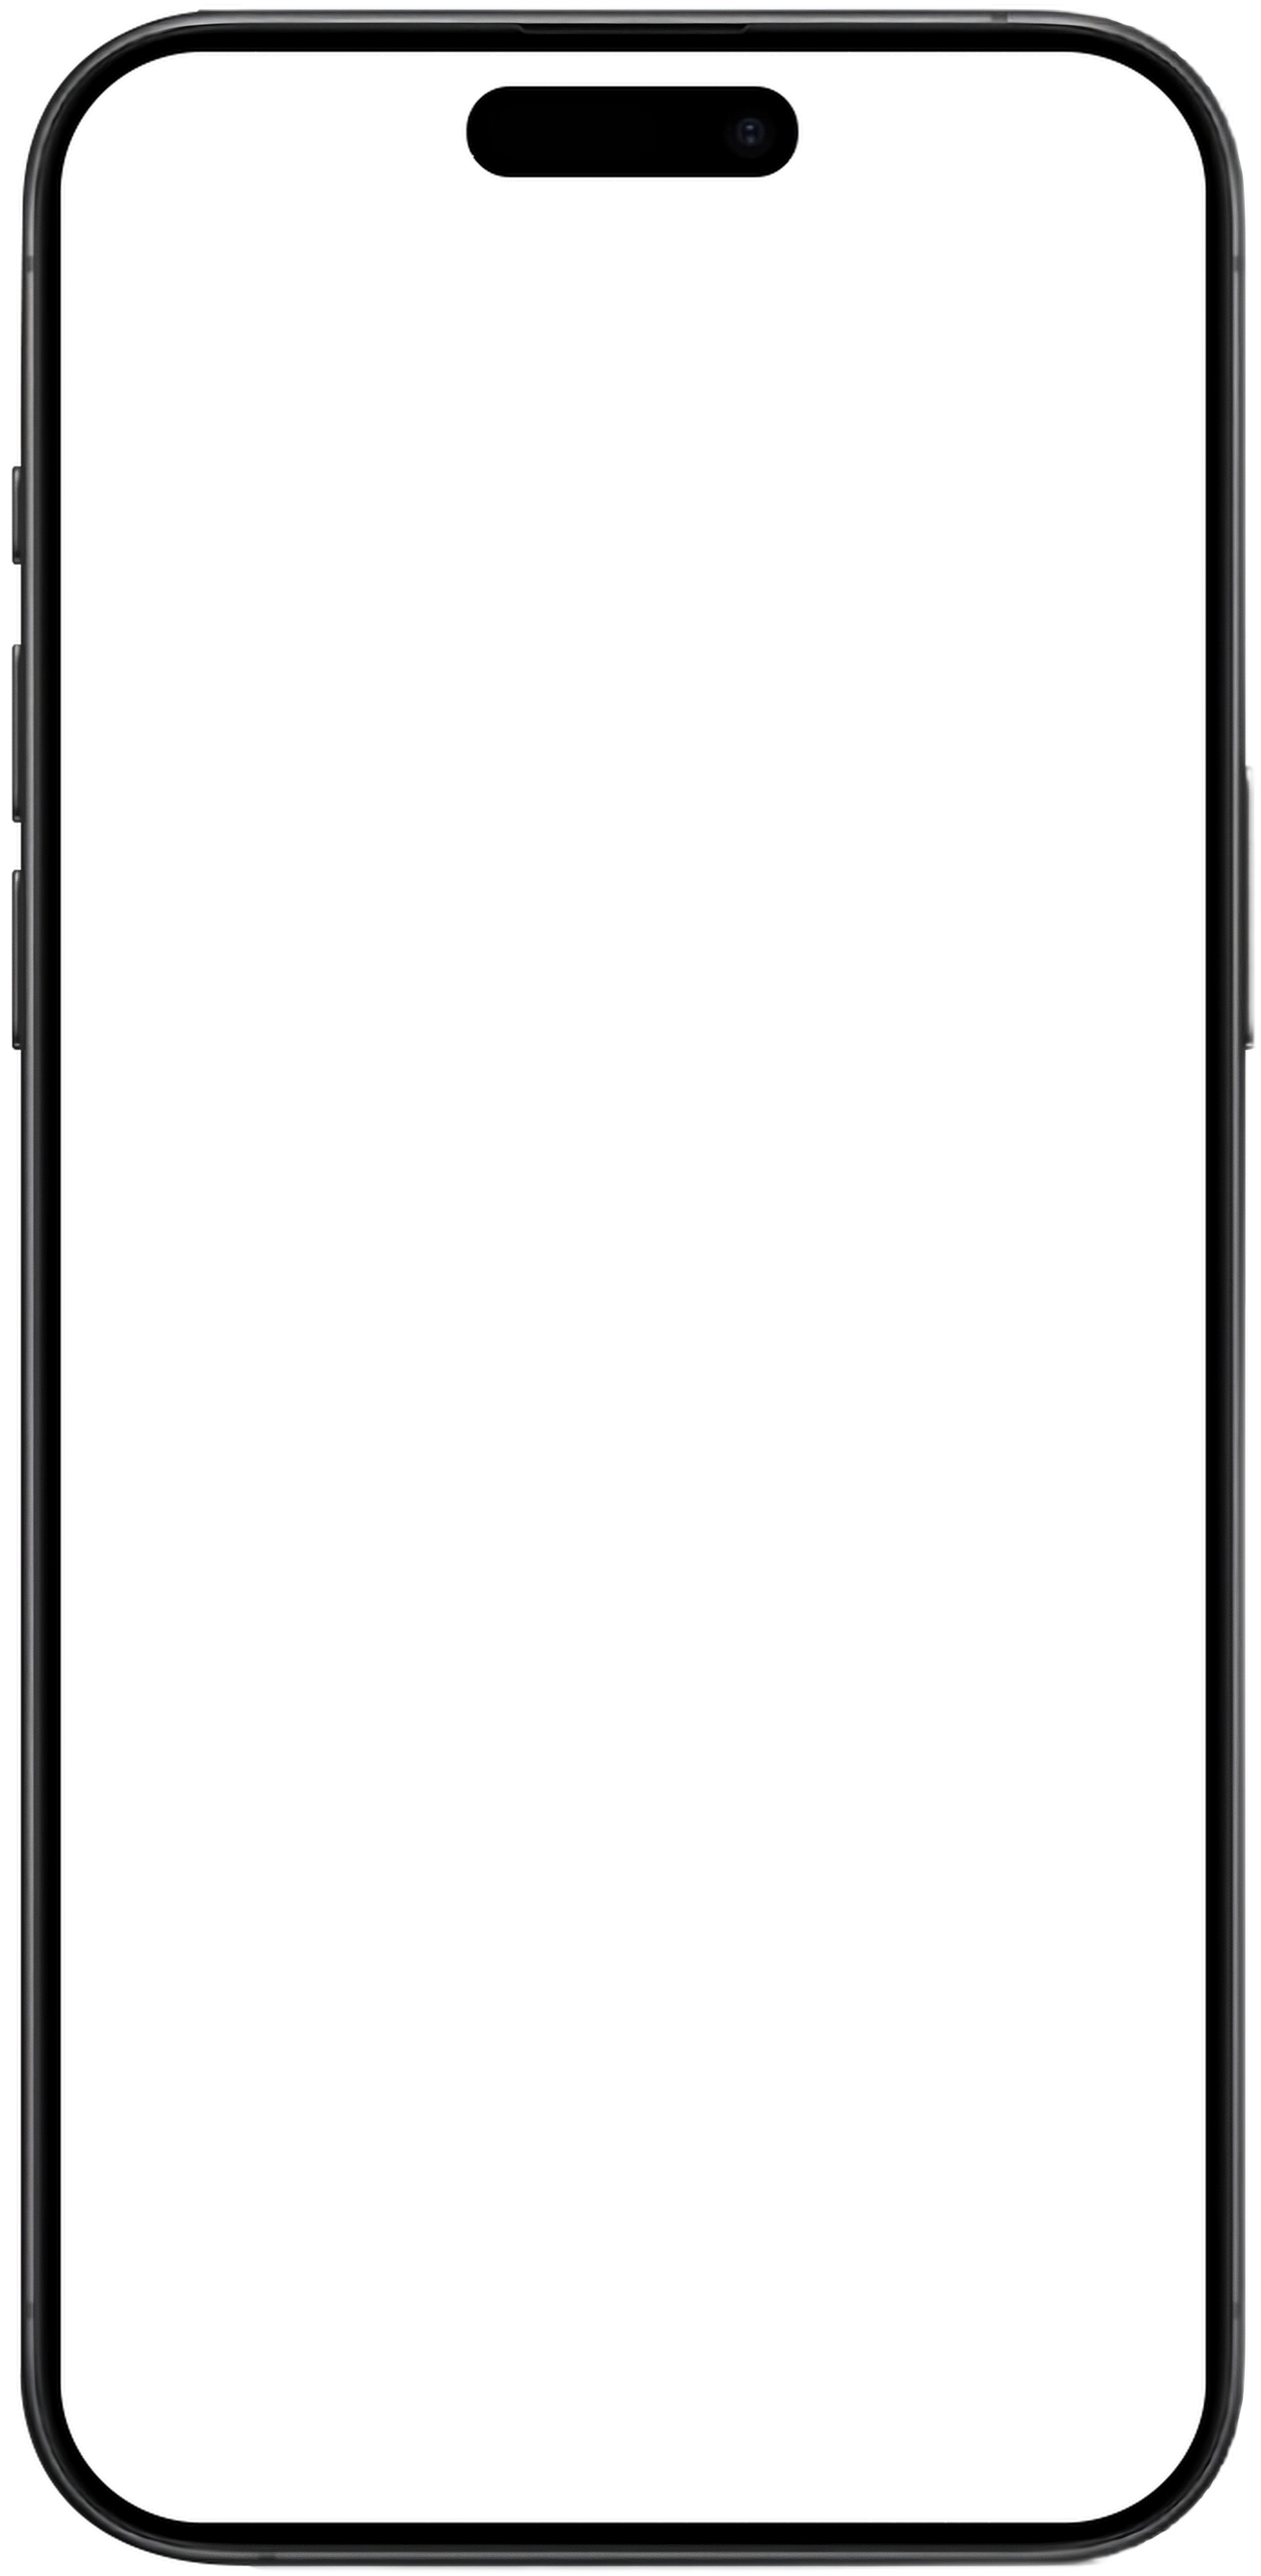
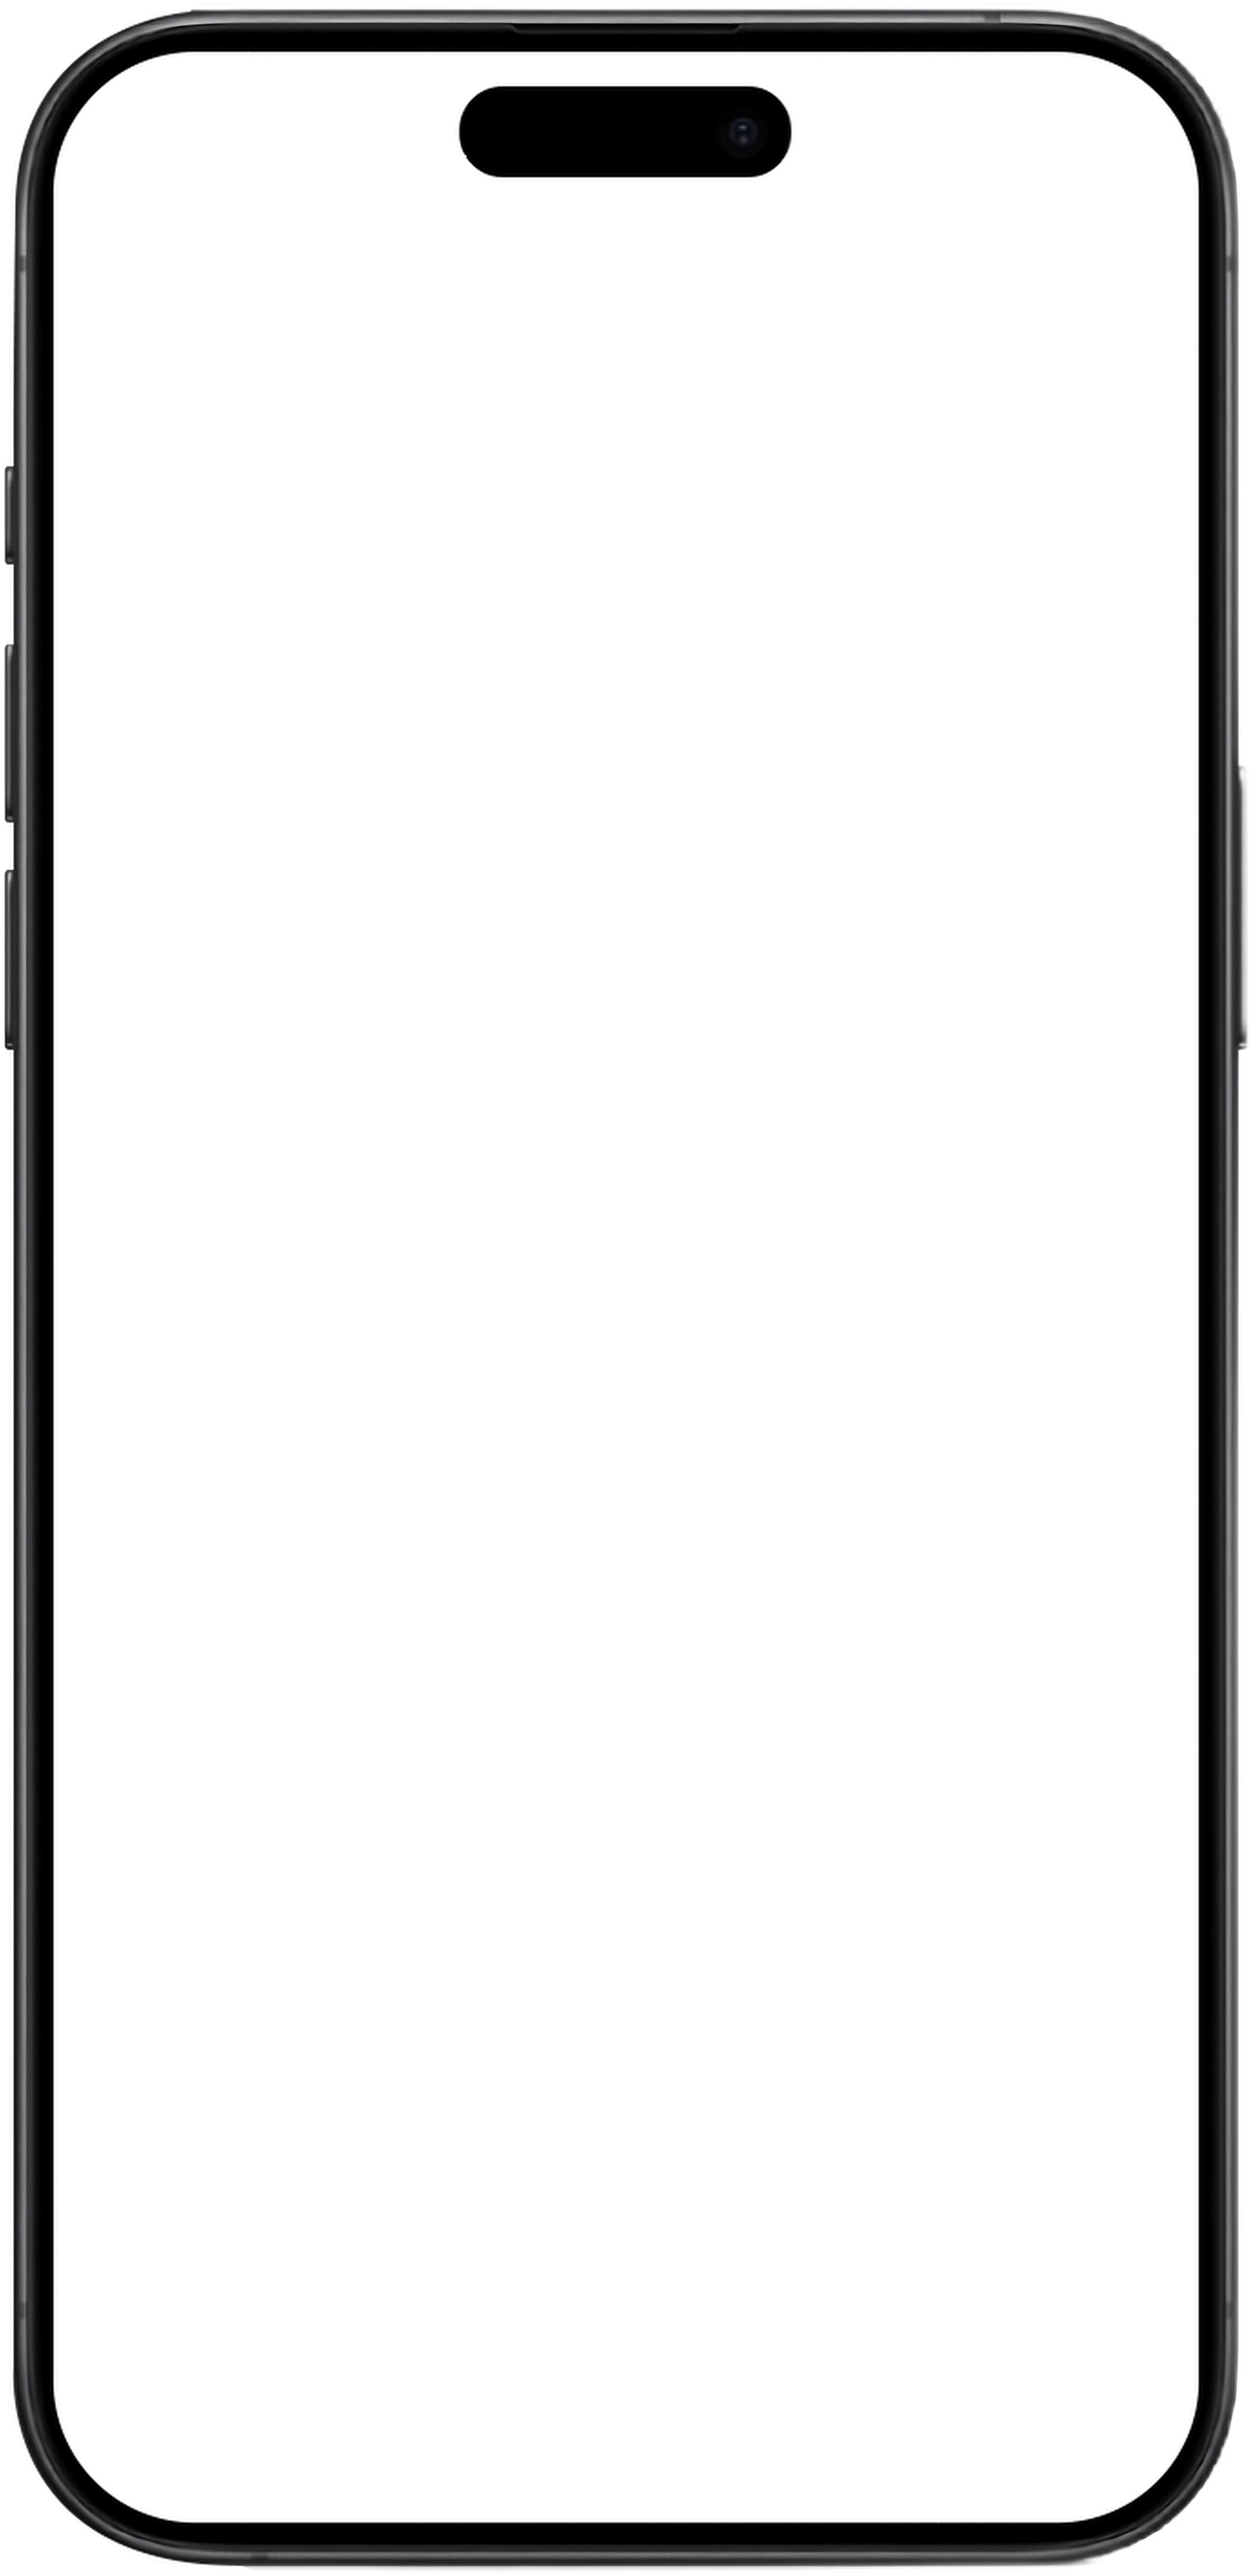
checkpoint

Changed region(s): [[0.0, 0.0, 0.1558, 0.9936], [0.3428, 0.0311, 0.3739, 0.0621], [0.1246, 0.9936, 0.1558, 1.0]]

diff --git a/Angular-App/src/styles.scss b/Angular-App/src/styles.scss
@@ -68,20 +68,36 @@ body {
   margin: 0;
   font-family: Roboto, "Helvetica Neue", sans-serif;
   height: 100vh;
-  overflow: clip;
+  // overflow: clip;
 }
 
 @media screen and (min-width: 1000px) {
   body {
-    padding: 50px;
-    width: 427px;
-    height: 90vh;
+    width: 300px;
+    height: 640px;
     margin: 0 auto;
-    margin-top: 15px;
-    background-image: url('../src/assets/Apple-iPhone-15-Frame-PNG.png');
-    background-position: center;
+    margin-top: 20px;
+    position: relative;
+    padding-top: 2%;
+    // background-image: url("./assets/Apple-iPhone-15-Frame-PNG.png");
+    // background-repeat: no-repeat;
+    // background-position: center;
+    // background-size: 460px;
+  }
+
+  body::before {
+    top: 0;
+    left: -15px;
+    content: "";
+    display: block;
+    width: 330px;
+    height: 690px;
+    position: absolute;
+    background-image: url("../src/assets/Apple-iPhone-15-Frame-PNG.png");
+    background-position: left;
     background-repeat: no-repeat;
-    background-size: contain;
+    background-size: 330px;
+    z-index: 10;
   }
 }
 

diff --git a/Angular-App/src/app/header/header.component.html b/Angular-App/src/app/header/header.component.html
@@ -1,5 +1,5 @@
 <section
-  class=" z-10"
+  class="z-10 "
   [class.bg-black]="themeService.isDarkMode"
   [class.text-white]="themeService.isDarkMode"
 >
@@ -80,7 +80,7 @@
 
     <mat-sidenav-content>
       <header
-        class="flex justify-between px-10 pt-4 text-4xl pb-3 bg-white"
+        class="flex justify-between  px-10 pt-4 text-4xl pb-3 bg-white"
         [class.!bg-black]="themeService.isDarkMode"
         [class.!text-white]="themeService.isDarkMode"
       >

diff --git a/Angular-App/src/app/home/home.component.html b/Angular-App/src/app/home/home.component.html
@@ -3,7 +3,7 @@
   [class.!text-white]="themeService.isDarkMode"
   class="h-full flex justify-start flex-col"
 >
-  <mat-tab-group class="!h-full nav bg-white" animationDuration="0ms" headerPosition="below"   [class.!bg-black]="themeService.isDarkMode"
+  <mat-tab-group class="!h-full nav bg-white " animationDuration="0ms" headerPosition="below"   [class.!bg-black]="themeService.isDarkMode"
   [class.!bg-black]="themeService.isDarkMode"
   >
     <mat-tab>
